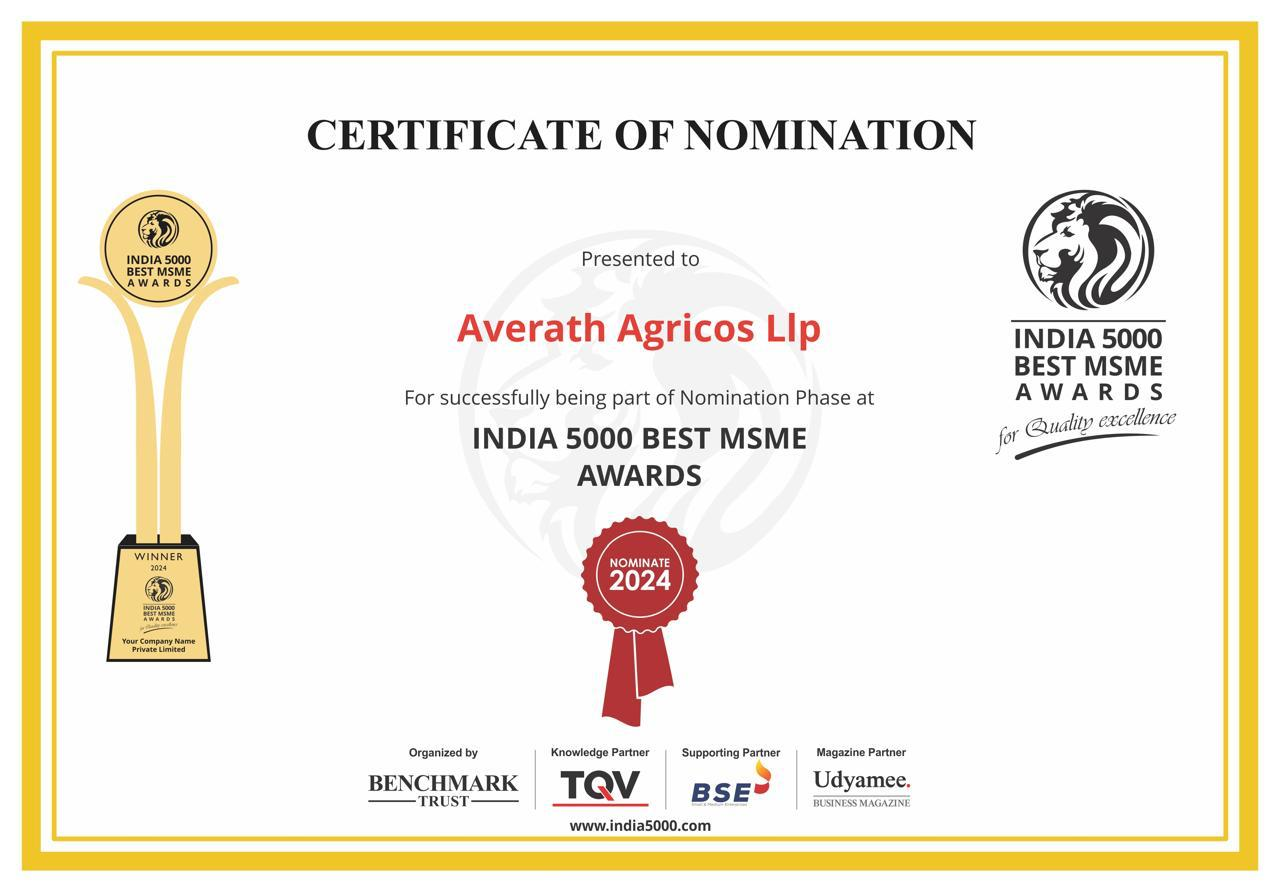
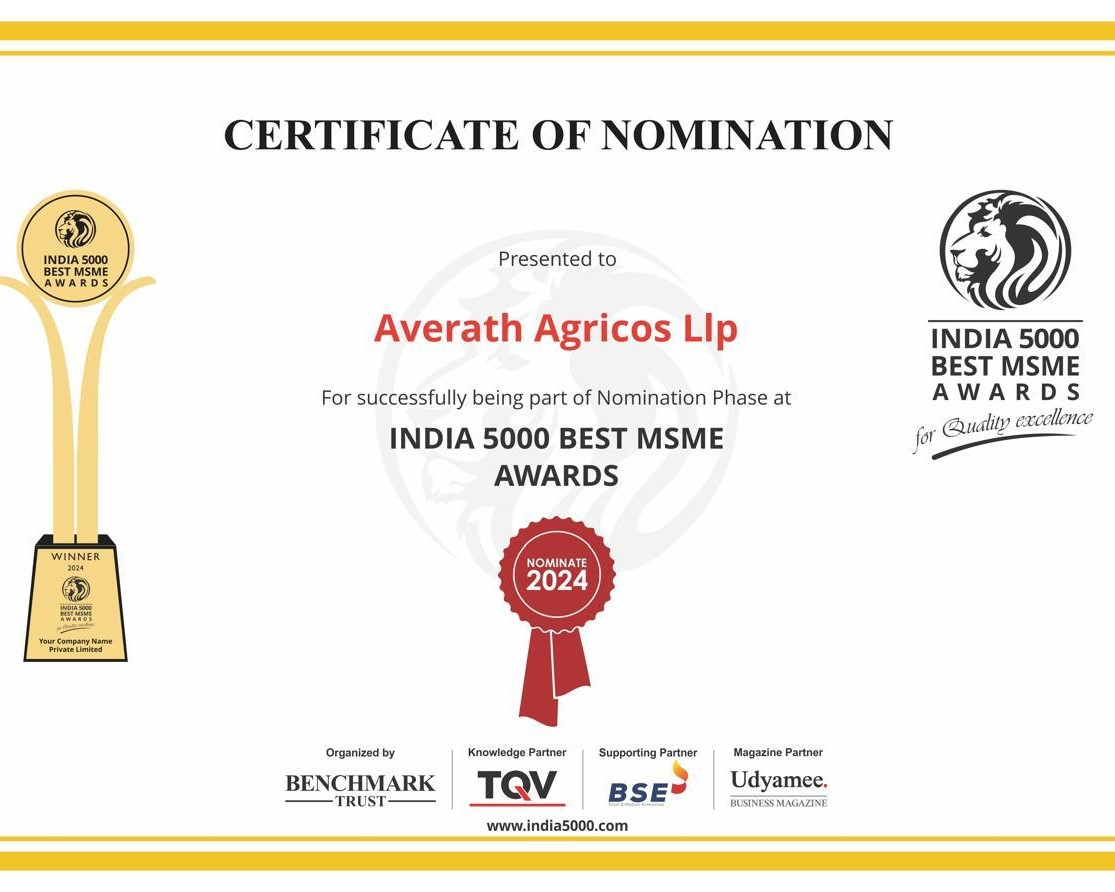
load

diff --git a/index.html b/index.html
@@ -3,13 +3,13 @@
 
 <head>
     <meta charset="utf-8">
-    <title>Labsky - Laboratory HTML Website Template</title>
+    <title>Averath Agricos</title>
     <meta content="width=device-width, initial-scale=1.0" name="viewport">
-    <meta content="" name="keywords">
-    <meta content="" name="description">
+    <meta content="Averath Agricos" name="keywords">
+    <meta content="Averath Agricos" name="description">
 
     <!-- Favicon -->
-    <link href="img/favicon.ico" rel="icon">
+    <link href="image/logo/fav.jpg" rel="icon">
 
     <!-- Google Web Fonts -->
     <link rel="preconnect" href="https://fonts.googleapis.com">
@@ -103,8 +103,9 @@
                     <div class="navbar-nav">
                         <a href="index.html" class="nav-item nav-link active">Home</a>
                         <a href="about.html" class="nav-item nav-link">About</a>
+                        <a href="about.html" class="nav-item nav-link">Products</a>
                         <a href="service.html" class="nav-item nav-link">Services</a>
-                        <div class="nav-item dropdown">
+                        <!-- <div class="nav-item dropdown">
                             <a href="#" class="nav-link dropdown-toggle" data-bs-toggle="dropdown">Pages</a>
                             <div class="dropdown-menu bg-light m-0">
                                 <a href="feature.html" class="dropdown-item">Features</a>
@@ -113,7 +114,7 @@
                                 <a href="appoinment.html" class="dropdown-item">Appoinment</a>
                                 <a href="404.html" class="dropdown-item">404 Page</a>
                             </div>
-                        </div>
+                        </div> -->
                         <a href="contact.html" class="nav-item nav-link">Contact</a>
                     </div>
                     <div class="ms-auto d-none d-lg-flex">
@@ -133,7 +134,11 @@
     <div class="container-fluid header-carousel px-0 ">
         <div id="header-carousel" class="carousel slide carousel-fade" data-bs-ride="carousel">
             <div class="carousel-inner">
-                <div class="carousel-item active">
+                <div class="carousel-item active" data-bs-interval="1000">
+                    <img class="w-100" src="image/banner1.jpg" alt="Image">
+                    
+                </div>
+                <div class="carousel-item ">
                     <img class="w-100" src="image/1.jpg" alt="Image">
                     <div class="carousel-caption">
                         <div class="container">
@@ -148,6 +153,7 @@
                         </div>
                     </div>
                 </div>
+               
                 <div class="carousel-item">
                     <img class="w-100" src="image/2.jpg" alt="Image">
                     <div class="carousel-caption">
@@ -162,6 +168,10 @@
                             </div>
                         </div>
                     </div>
+                </div>
+                <div class="carousel-item">
+                    <img class="w-100" src="image/banner2.jpg" alt="Image">
+                    
                 </div>
             </div>
             <button class="carousel-control-prev" type="button" data-bs-target="#header-carousel" data-bs-slide="prev">
@@ -330,16 +340,18 @@
                         <div class="row g-5 pt-2 mb-5">
                             <div class="col-sm-6 wow fadeIn" data-wow-delay="0.3s">
                                 <div class="icon-box-primary mb-4">
-                                    <img src="image/certificate/2.jpg" height="150px" width="150px"
-                                        class="border border-2 border-dark p-1 shadow-lg" alt="">
+                                    <a href="image/certificate/1.jpg" target="_blank"><img src="image/certificate/2.jpg" height="150px" width="150px"
+                                        class="border border-2 border-dark p-1 shadow-lg" alt=""></a>
                                 </div>
                                 <h5 class="mb-3">Being nominated for the MSME Award </h5>
                                 <!-- <span>Lorem ipsum dolor sit amet, consectetur adipiscing elit.</span> -->
                             </div>
                             <div class="col-sm-6 wow fadeIn" data-wow-delay="0.4s">
                                 <div class="icon-box-primary mb-4">
+                                   <a href="image/certificate/6.jpg" target="_blank">
                                     <img src="image/certificate/4.jpg" height="150px" width="150px"
-                                        class="border border-2 border-dark p-1 shadow-lg" alt="">
+                                    class="border border-2 border-dark p-1 shadow-lg" alt="">
+                                   </a>
 
                                 </div>
                                 <h5 class="mb-3">We Are Proud to Be Finalists in Manage Agri Eureka 2022</h5>
@@ -399,8 +411,21 @@
         </div>
     </div>
     <!-- Features End -->
+    <div class="container my-5">
+       <div class="row justify-content-center">
+        <div class="col-7">
+            <div class="row ">
+                <div class="col-lg-6">
+                   <img src="image/certificate/1.jpg" class=" border p-2 shadow-lg rounded" height="auto" width="100%" alt="">
+                </div>
+                <div class="col-lg-6">
+                   <img src="image/certificate/5.jpg"  class=" border p-2 shadow-lg rounded"height="auto" width="100%" alt="">
+                </div>
+            </div>
+        </div>
+       </div>
+    </div>
 
-   
     <!-- Feature Start -->
     <div class="container overflow-hidden py-5 px-lg-0">
         <div class="container   py-5 px-lg-0">
@@ -412,7 +437,9 @@
 
                         <div class="ms-4">
                             <h5 class="text-danger"> NABL Accredited Lab Testing</h5>
-                            <p class="mb-0">We ensure the highest standards of quality through rigorous testing in our NABL accredited laboratories. This guarantees that our products meet stringent safety and quality criteria.
+                            <p class="mb-0">We ensure the highest standards of quality through rigorous testing in our
+                                NABL accredited laboratories. This guarantees that our products meet stringent safety
+                                and quality criteria.
                             </p>
                         </div>
                     </div>
@@ -420,21 +447,25 @@
 
                         <div class="ms-4">
                             <h5 class="text-danger">FSSAI Certified</h5>
-                            <p class="mb-0">We are certified by the Food Safety and Standards Authority of India (FSSAI), which underscores our dedication to providing safe and nutritious food products for our customers.</p>
+                            <p class="mb-0">We are certified by the Food Safety and Standards Authority of India
+                                (FSSAI), which underscores our dedication to providing safe and nutritious food products
+                                for our customers.</p>
                         </div>
                     </div>
                     <div class="d-flex mb-0 wow fadeInUp" data-wow-delay="0.7s">
 
                         <div class="ms-4">
                             <h5 class="text-danger">Meets European & USA Standards</h5>
-                            <p class="mb-0">We adhere to stringent quality standards recognized globally. Our products meet both European and USA safety regulations, ensuring that you receive top-quality agricultural products.</p>
+                            <p class="mb-0">We adhere to stringent quality standards recognized globally. Our products
+                                meet both European and USA safety regulations, ensuring that you receive top-quality
+                                agricultural products.</p>
                         </div>
                     </div>
                 </div>
                 <div class="col-lg-6 pe-lg-0 wow fadeInRight" data-wow-delay="0.1s" style="min-height: 400px;">
                     <div class="position-relative h-100">
                         <div class="bg3"></div>
-                         <!-- <img src="image/export.jpg" height="100%" width="100%" style="object-fit: cover;" alt=""> -->
+                        <!-- <img src="image/export.jpg" height="100%" width="100%" style="object-fit: cover;" alt=""> -->
                     </div>
                 </div>
             </div>
